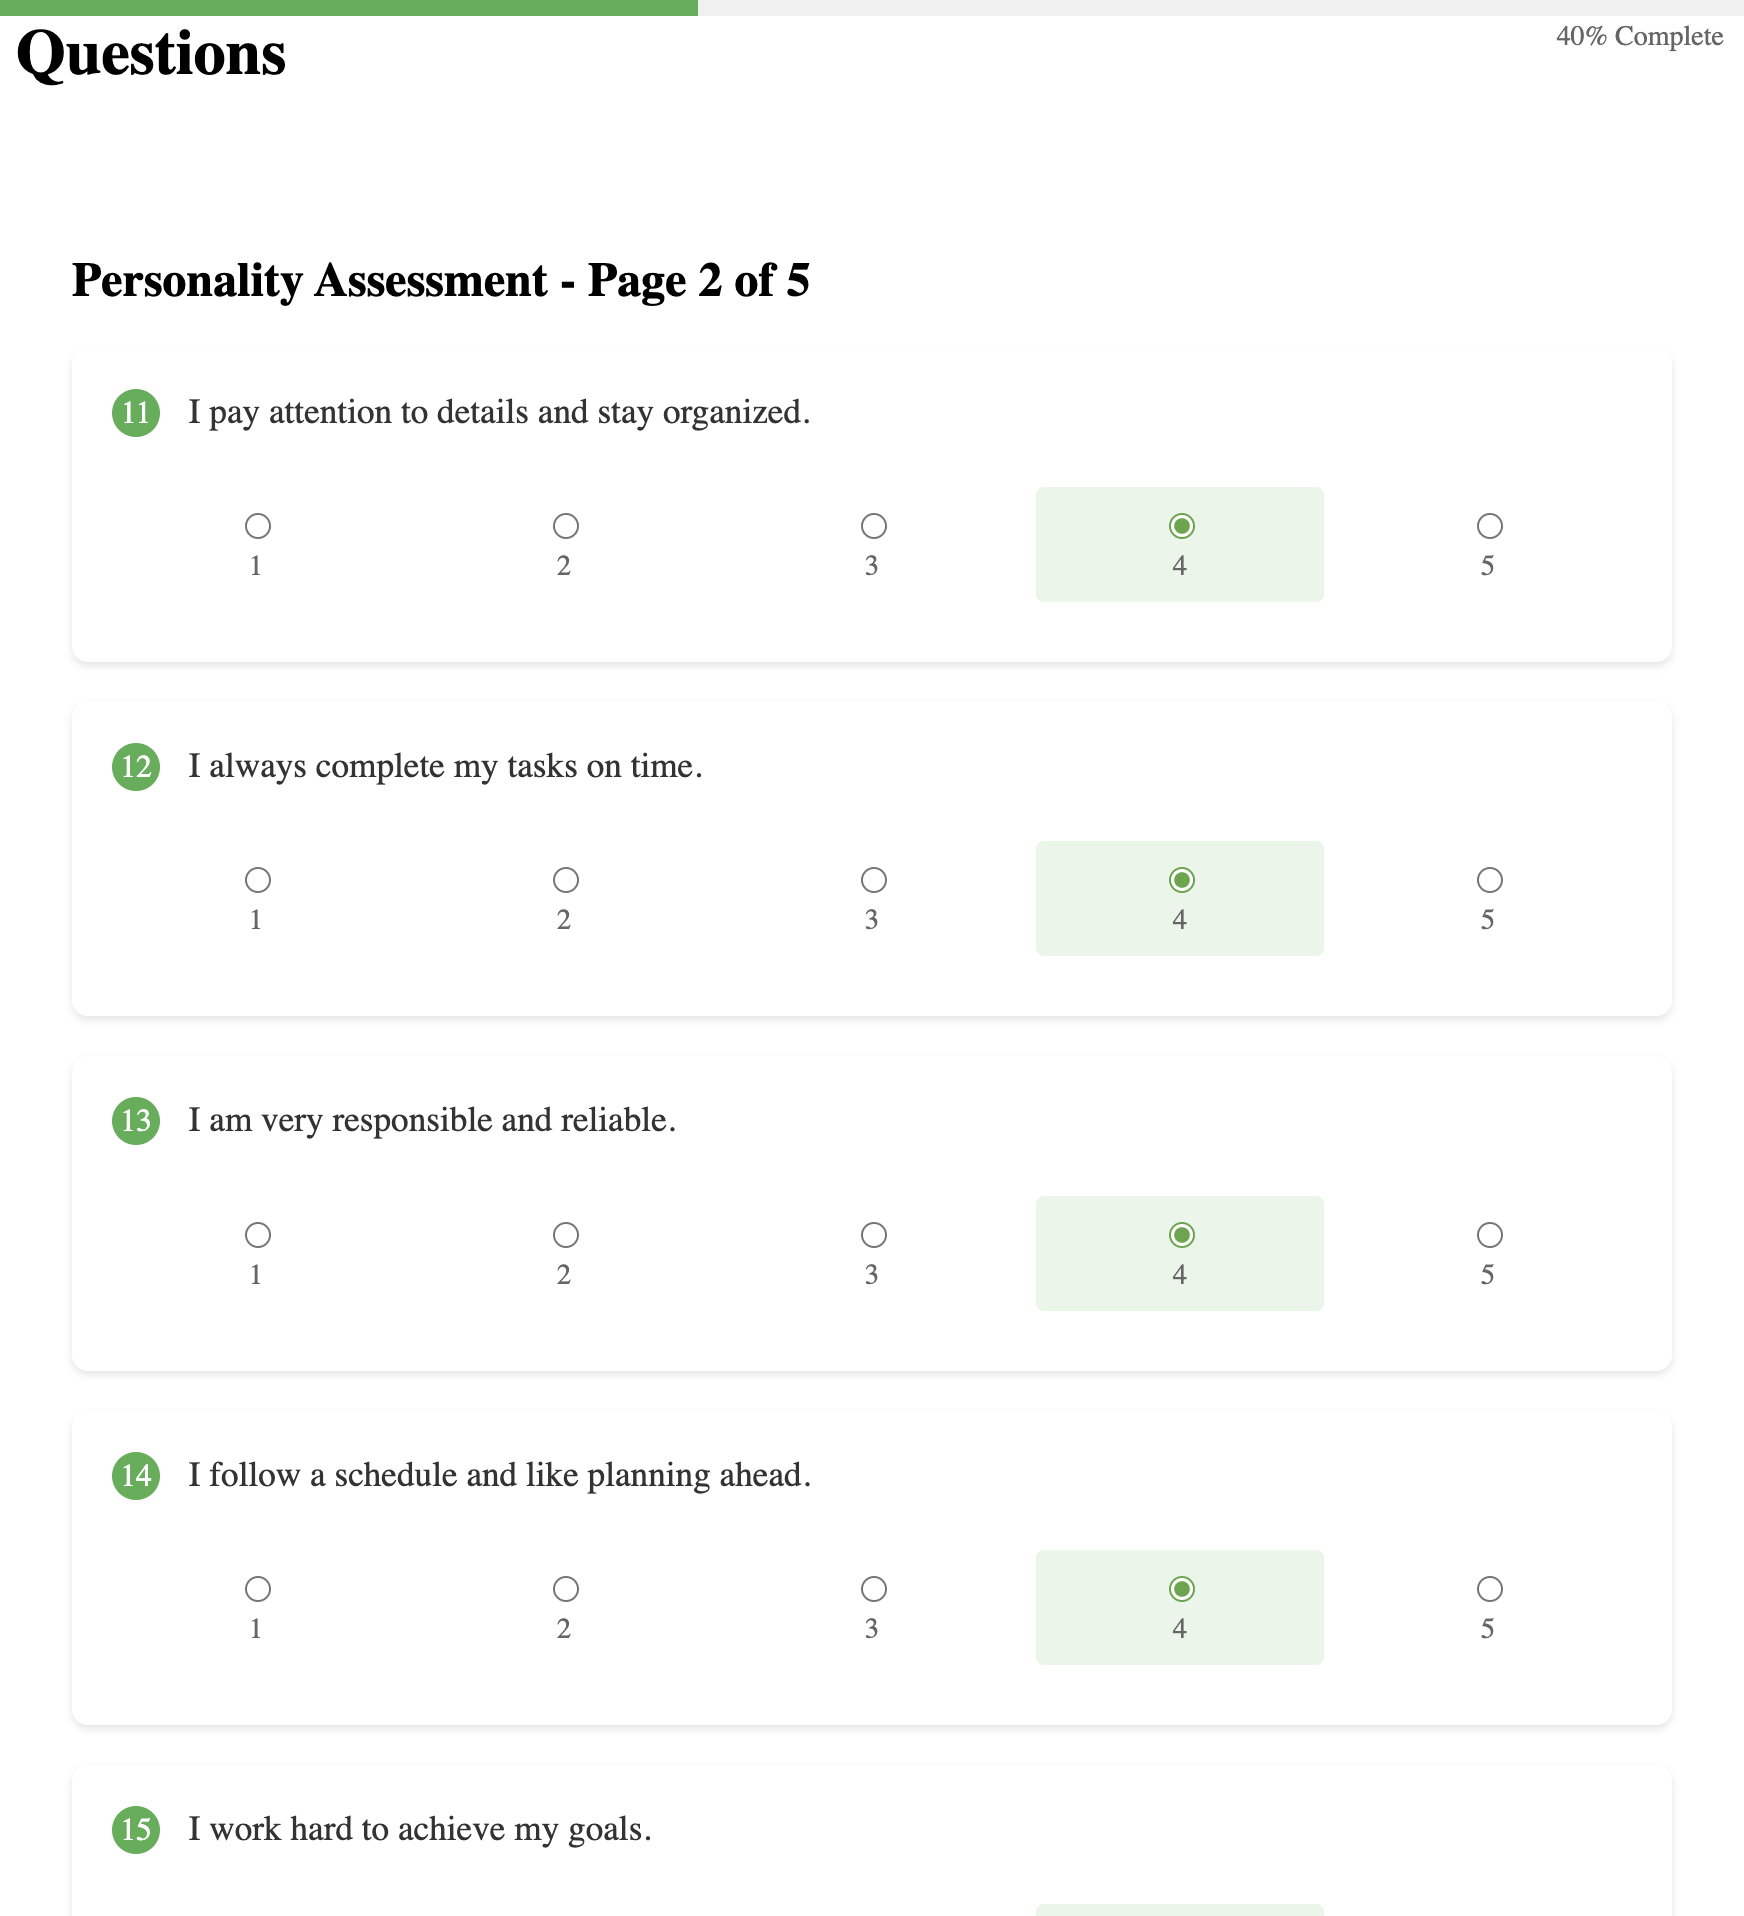
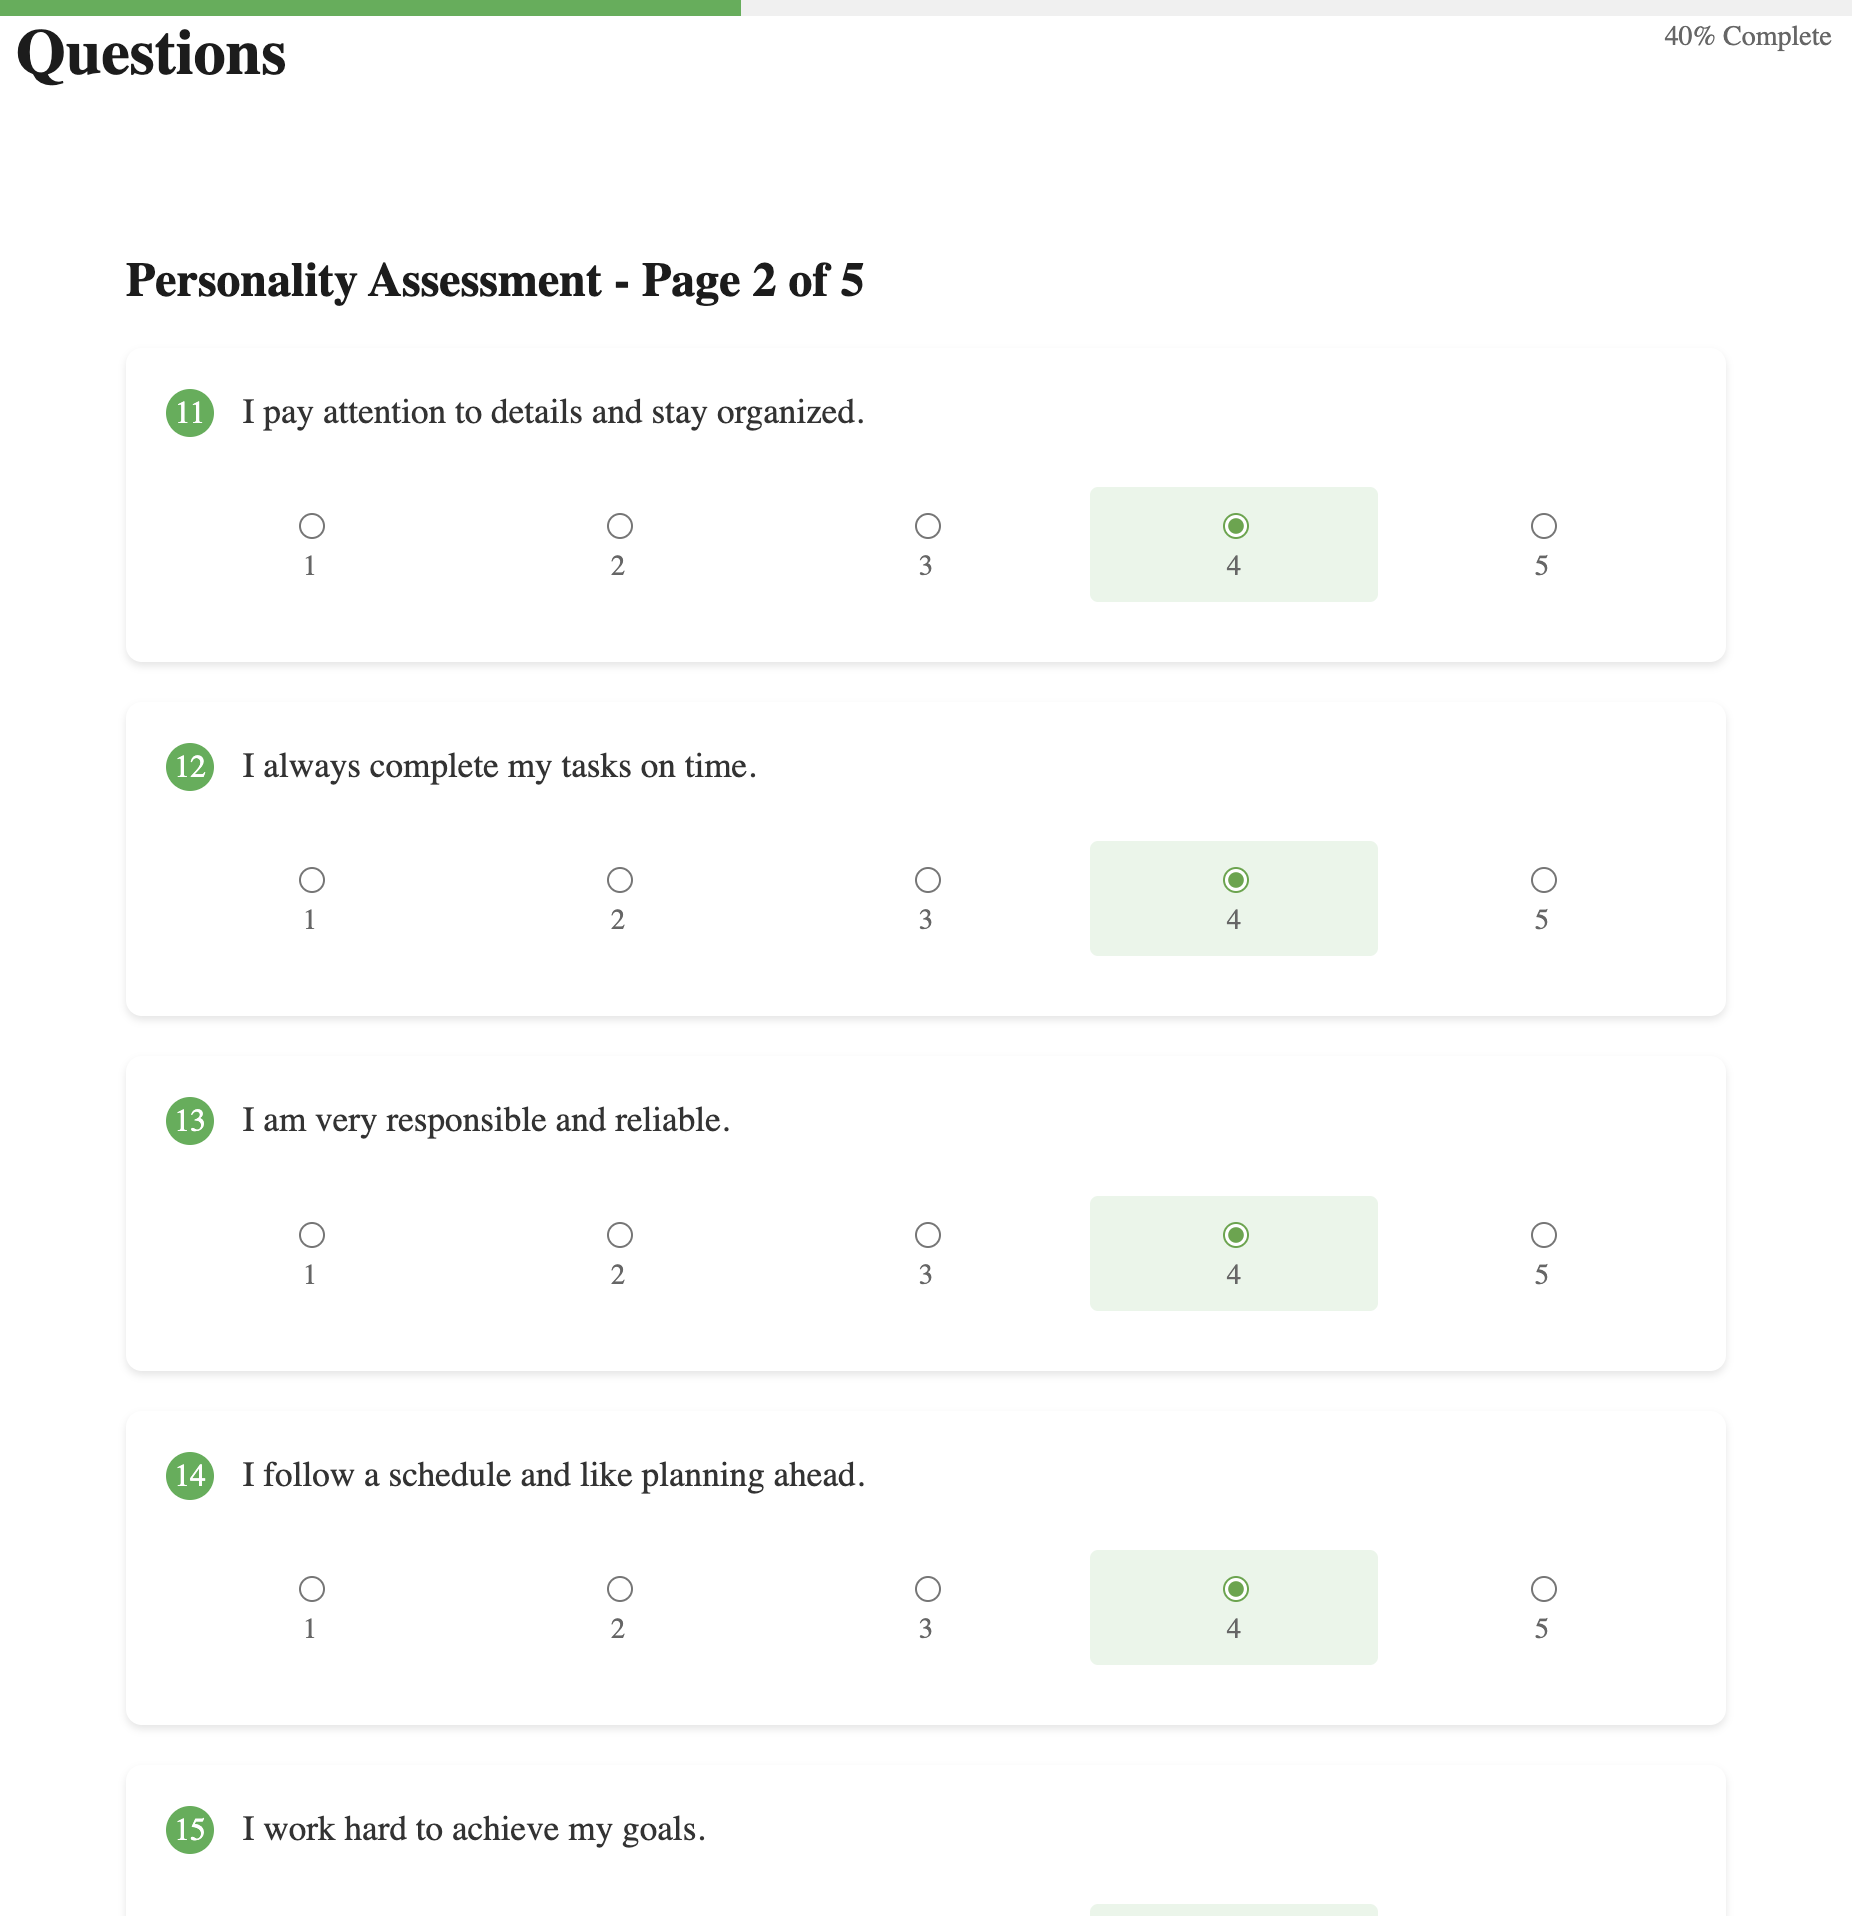
Replace the dark test screenshots with the light page.

diff --git a/src/FE/persona/src/styles.css b/src/FE/persona/src/styles.css
@@ -1,1 +1,5 @@
-/* You can add global styles to this file, and also import other style files */
+html, body {
+  background: #ffffff;
+  color: #1c1c1c;
+  color-scheme: light;
+}
